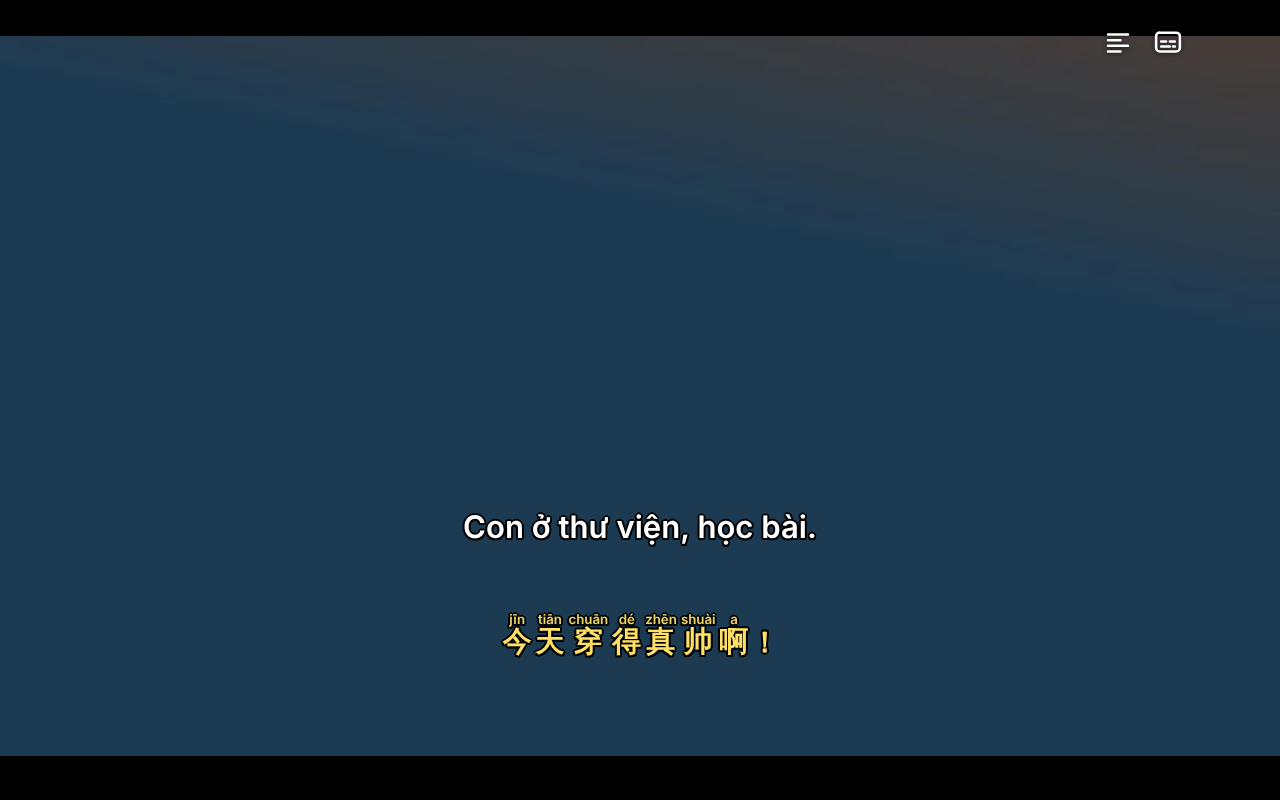
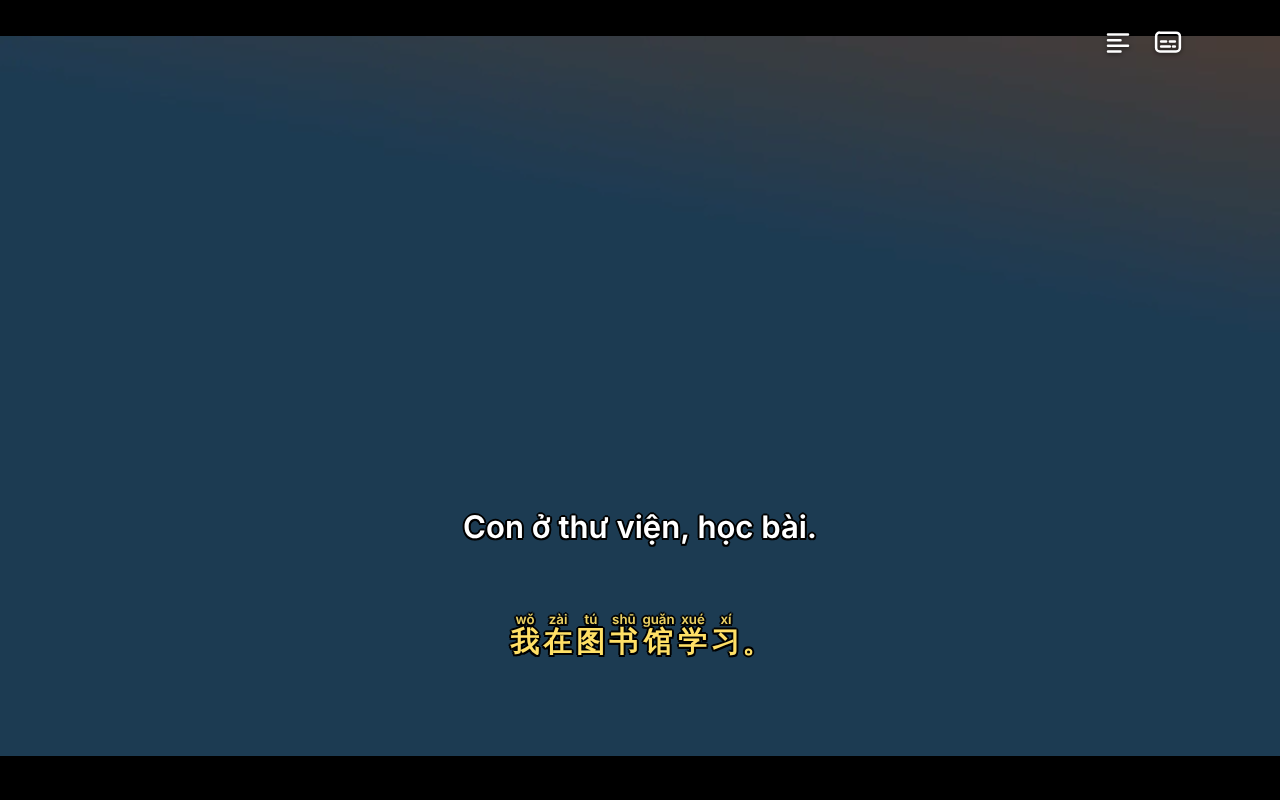
1.9.2: more accurate Pinyin (polyphones 得/还/着, Traditional Chinese)
Claude-Session: https://claude.ai/code/session_018XAhiP6JKHX2TB87ej2AGj

Changed region(s): [[0.375, 0.75, 0.625, 0.8438]]

diff --git a/src/content/phonetic.js b/src/content/phonetic.js
@@ -24,11 +24,63 @@ window.NDS = window.NDS || {};
   const toHira = (s) => s.replace(/[ァ-ヶ]/g, (c) => String.fromCharCode(c.charCodeAt(0) - 0x60));
 
   // ---------- Tiếng Trung ----------
+  // pinyin-pro chọn âm cho chữ đa âm theo từ điển cụm từ. Với một số chữ hư từ rất hay gặp trong
+  // hội thoại, khi chữ đứng riêng (không nằm trong cụm từ có sẵn) thư viện trả âm mặc định sai
+  // (vd. 穿得 → "dé", đúng là "de"). Các luật dưới đây sửa những trường hợp phổ biến nhất.
+  const HAN = /[\u3400-\u9fff]/;
+  const has = (set, c) => !!c && set.includes(c);
+  const DE_PREV_KEEP = '获獲取赢贏难難值心所懂晓曉记記觉覺显顯舍捨免不'; // 获得 dé, 觉得 de… để từ điển quyết
+  const DE_NEXT_KEEP = '到以分意罪知手出益逞体體力失奖獎病了'; // 得到, 得分… = dé
+  const DE_PRON = '我你他她它您咱俺们們'; // 我得走了 = děi
+  const HUAN_NEXT = '钱錢书書债債款给給清'; // 还钱 huán
+  const HUAN_PREV = '归歸偿償退交奉送'; // 归还 huán
+  const HAI_NEXT = '没沒是有要在会會不很能可得好也都在再'; // 还没 hái
+  const ZHE_NEXT_KEEP = '名作称稱述书書急火凉涼迷陆陸手重想落'; // 著名, 着急…
+  const ZHE_PREV_KEEP = '显顯土卓巨编編原论論名';
+  let zhReady = false;
+
+  function initZh(lib) {
+    if (zhReady) return;
+    zhReady = true;
+    try {
+      // Bảng Phồn → Giản giúp tra đúng cụm từ trong phụ đề Phồn thể (vd. 銀行 → yín háng).
+      if (window.NDS_ZH_T2S && lib.addTraditionalDict) lib.addTraditionalDict(window.NDS_ZH_T2S);
+      if (lib.customPinyin) {
+        lib.customPinyin({ 长得: 'zhǎng de', 長得: 'zhǎng de', 长大: 'zhǎng dà', 長大: 'zhǎng dà' });
+      }
+    } catch (e) {
+      console.info('[Dual Subs] Không nạp được dữ liệu Pinyin bổ sung:', e);
+    }
+  }
+
+  function fixPolyphones(items) {
+    for (let i = 0; i < items.length; i++) {
+      const it = items[i];
+      if (!it.isZh) continue;
+      const c = it.origin;
+      const prev = items[i - 1] && items[i - 1].isZh ? items[i - 1].origin : '';
+      const next = items[i + 1] && items[i + 1].isZh ? items[i + 1].origin : '';
+      if (c === '得') {
+        if (!prev || has(DE_NEXT_KEEP, next) || has(DE_PREV_KEEP, prev) || it.pinyin === 'de') continue;
+        it.pinyin = has(DE_PRON, prev) ? 'děi' : 'de';
+      } else if (c === '还' || c === '還') {
+        if (has(HUAN_NEXT, next) || has(HUAN_PREV, prev)) it.pinyin = 'huán';
+        else if (has(HAI_NEXT, next)) it.pinyin = 'hái';
+      } else if (c === '著' || c === '着') {
+        // Trợ từ "đang/đã" sau động từ: 看著 kàn zhe; 睡著 shuì zháo.
+        if (!prev || has(ZHE_NEXT_KEEP, next) || has(ZHE_PREV_KEEP, prev)) continue;
+        it.pinyin = prev === '睡' ? 'zháo' : 'zhe';
+      }
+    }
+    return items;
+  }
+
   function annotateZh(text) {
     const lib = window.pinyinPro;
     if (!lib) return [{ text }];
+    initZh(lib);
     const out = [];
-    for (const item of lib.pinyin(text, { type: 'all' })) {
+    for (const item of fixPolyphones(lib.pinyin(text, { type: 'all', traditional: true }))) {
       if (item.isZh && item.pinyin) out.push({ text: item.origin, rt: item.pinyin });
       else if (out.length && !out[out.length - 1].rt) out[out.length - 1].text += item.origin;
       else out.push({ text: item.origin });
